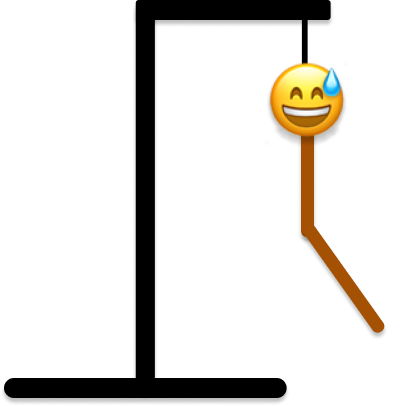
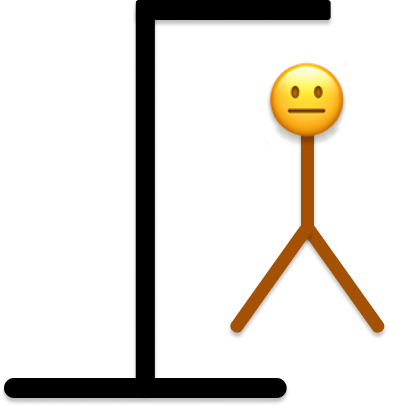
new

Changed region(s): [[0.563, 0.5616, 0.7704, 0.8276], [0.6815, 0.1478, 0.8593, 0.3251], [0.7407, 0.0296, 0.7704, 0.1773]]

diff --git a/hangman/src/App.js b/hangman/src/App.js
@@ -1,19 +1,23 @@
 import React from "react";
 import "./App.css";
-import m0 from "./assets/1.png";
-import m1 from "./assets/2.png";
-import m2 from "./assets/3.png";
-import m3 from "./assets/4.png";
-import m4 from "./assets/5.png";
-import m5 from "./assets/6.png";
-import m6 from "./assets/7.png";
+import m0 from "./assets/0.png";
+import m1 from "./assets/1.png";
+import m2 from "./assets/2.png";
+import m3 from "./assets/3.png";
+import m4 from "./assets/4.png";
+import m5 from "./assets/5.png";
+import m6 from "./assets/6.png";
+import m7 from "./assets/7.png";
+import m8 from "./assets/8.png";
+import m9 from "./assets/9.png";
+import m10 from "./assets/10.png";
 
 export default class App extends React.Component {
   constructor(props) {
     super(props);
     this.state = {
       phase: "start",
-      cc: 0,
+      cc: 10,
       wsha: "kurdloow",
       found: [],
       counter: 10,
@@ -36,7 +40,7 @@ export default class App extends React.Component {
         console.log("ghalattt");
       }
     };
-    const imag = [m0, m1, m2, m3, m4, m5, m6];
+    const imag = [m0, m1, m2, m3, m4, m5, m6, m7, m8, m9, m10];
     return (
       <center className="start">
         <div className="font top">Hang the dude</div>
@@ -80,7 +84,7 @@ export default class App extends React.Component {
                   console.log("_");
                 }
               }
-              this.setState({ cc: (this.state.cc + 1) % 7 });
+              this.setState({ cc: (this.state.cc - 1) % 11 });
             }}
           >
             Restart
